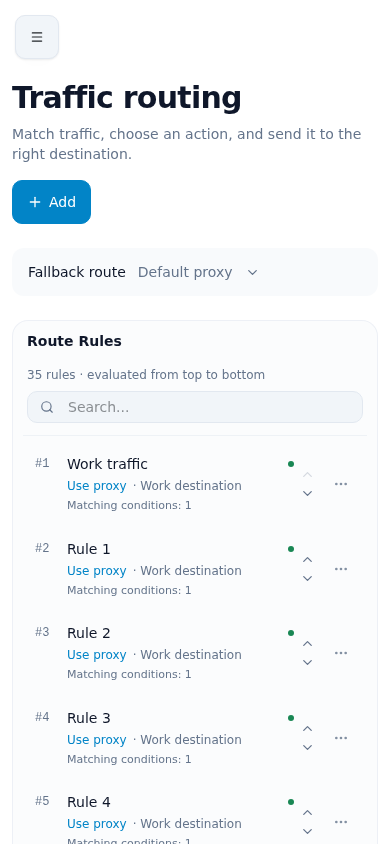
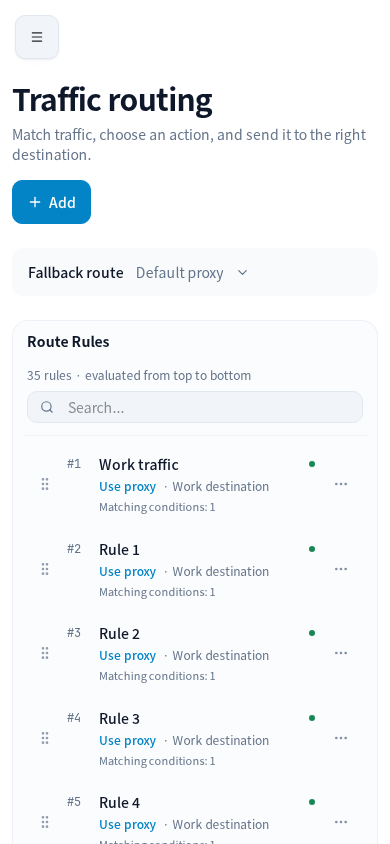
feat(routing): reorder rules with mouse and touch drag handles

diff --git a/src/docs/bypass/rule-list.tsx b/src/docs/bypass/rule-list.tsx
@@ -2,10 +2,12 @@ import { Button } from '@/component/v2/button';
 import { Dropdown, DropdownCheckboxItem, DropdownContent, DropdownItem, DropdownTrigger } from '@/component/v2/dropdown';
 import type { RuleItem } from '@/contract/route';
 import clsx from 'clsx';
-import { ArrowUpDown, ChevronDown, ChevronUp, MoreHorizontal } from 'lucide-react';
+import { ArrowUpDown, GripVertical, MoreHorizontal } from 'lucide-react';
 import { useTranslation } from 'react-i18next';
+import { useId } from 'react';
+import { useRuleDrag, type RuleDrop } from './rule-drag';
 
-export function RuleList({ items, selectedId, onOpen, onPriority, onToggle, onMove, destinations, resolverNames, busy, page, pageSize, total, filtered }: {
+export function RuleList({ items, selectedId, onOpen, onPriority, onToggle, onMove, onDrop, destinations, resolverNames, busy, page, pageSize, total, filtered }: {
     items: RuleItem[];
     selectedId?: string;
     destinations: Record<string, string>;
@@ -19,12 +21,17 @@ export function RuleList({ items, selectedId, onOpen, onPriority, onToggle, onMo
     onPriority: (item: RuleItem) => void;
     onToggle: (item: RuleItem) => void;
     onMove: (item: RuleItem, direction: -1 | 1) => void;
+    onDrop: (item: RuleItem, drop: RuleDrop) => void;
 }) {
     const { t } = useTranslation('routing');
     const { t: uiT } = useTranslation('ui');
     const hasPreviousPage = page > 1;
     const hasNextPage = total > (page - 1) * pageSize + items.length;
-    return <ul className="m-0 list-none space-y-1 p-0" aria-label={uiT('routeRules')}>
+    const helpId = useId();
+    const { listRef, drag, start } = useRuleDrag(items, busy || filtered || total < 2, onDrop);
+    return <>
+        <p id={helpId} className="sr-only">{t('dragRuleHelp')}</p>
+        <ul ref={listRef} className="m-0 list-none space-y-1 p-0" aria-label={uiT('routeRules')}>
         {items.map((item, index) => {
             const proxy = item.mode === 'proxy';
             const destination = !item.target.type || item.target.type === 'default'
@@ -32,13 +39,24 @@ export function RuleList({ items, selectedId, onOpen, onPriority, onToggle, onMo
             const selected = item.id === selectedId;
             const canMoveUp = !filtered && !busy && (index > 0 || hasPreviousPage);
             const canMoveDown = !filtered && !busy && (index + 1 < items.length || hasNextPage);
-            return <li key={item.id} className={clsx(
+            return <li key={item.id} data-rule-id={item.id} className={clsx(
                 'group relative flex min-w-0 items-center rounded-ui-md transition-colors',
-                selected ? 'bg-ui-primary-soft/70' : 'hover:bg-ui-surface-muted/75'
+                selected ? 'bg-ui-primary-soft/70' : 'hover:bg-ui-surface-muted/75', drag?.source.id === item.id && 'opacity-35'
             )}>
                 {selected && <span aria-hidden="true" className="absolute inset-y-3 left-0 w-0.5 rounded-full bg-ui-primary" />}
+                {drag?.target?.target.id === item.id && <span aria-hidden="true" className={clsx('pointer-events-none absolute inset-x-0 z-10 h-0.5 rounded-full bg-ui-primary', drag.target.placement === 'insert_before' ? 'top-0' : 'bottom-0')} />}
+                <button type="button" disabled={busy || filtered || total < 2} aria-label={t('dragRule', { name: item.name })} aria-describedby={helpId}
+                    title={t('dragRuleHelp')} onPointerDown={event => start(event, item)} onContextMenu={event => event.preventDefault()}
+                    onKeyDown={event => {
+                        if (event.key === 'ArrowUp' && canMoveUp || event.key === 'ArrowDown' && canMoveDown) {
+                            event.preventDefault(); onMove(item, event.key === 'ArrowUp' ? -1 : 1);
+                        }
+                    }}
+                    className="flex h-11 w-7 shrink-0 touch-pan-y cursor-grab items-center justify-center rounded-ui-md text-ui-muted/70 hover:text-ui-heading focus-visible:outline-none focus-visible:ring-2 focus-visible:ring-ui-focus active:cursor-grabbing disabled:cursor-default disabled:opacity-25 max-sm:w-11">
+                    <GripVertical size={16} aria-hidden="true" />
+                </button>
                 <button type="button" aria-current={selected ? 'true' : undefined} aria-label={item.name} title={item.name} onClick={() => onOpen(item)}
-                    className="min-w-0 flex-1 rounded-ui-md py-2.5 pl-3 pr-1 text-left focus-visible:outline-none focus-visible:ring-2 focus-visible:ring-inset focus-visible:ring-ui-focus">
+                    className="min-w-0 flex-1 rounded-ui-md py-2.5 pl-0 pr-1 text-left focus-visible:outline-none focus-visible:ring-2 focus-visible:ring-inset focus-visible:ring-ui-focus">
                     <div className={clsx('min-w-0', item.disabled && 'opacity-60')}>
                         <div className="flex min-w-0 items-center gap-2">
                             <span className="w-6 shrink-0 font-mono text-xs tabular-nums text-ui-muted">#{item.index}</span>
@@ -58,18 +76,6 @@ export function RuleList({ items, selectedId, onOpen, onPriority, onToggle, onMo
                     </div>
                 </button>
                 <div className="flex shrink-0 items-center gap-0.5 pr-1">
-                    <div className="flex flex-col">
-                        <button type="button" disabled={!canMoveUp} aria-label={`${t('moveEarlier')}: ${item.name}`}
-                            title={t('moveEarlier')} onClick={() => onMove(item, -1)}
-                            className="rounded-ui-xs p-0.5 text-ui-muted hover:bg-ui-surface hover:text-ui-heading focus-visible:outline-none focus-visible:ring-2 focus-visible:ring-ui-focus disabled:opacity-25">
-                            <ChevronUp size={15} />
-                        </button>
-                        <button type="button" disabled={!canMoveDown} aria-label={`${t('moveLater')}: ${item.name}`}
-                            title={t('moveLater')} onClick={() => onMove(item, 1)}
-                            className="rounded-ui-xs p-0.5 text-ui-muted hover:bg-ui-surface hover:text-ui-heading focus-visible:outline-none focus-visible:ring-2 focus-visible:ring-ui-focus disabled:opacity-25">
-                            <ChevronDown size={15} />
-                        </button>
-                    </div>
                     <Dropdown><DropdownTrigger asChild>
                         <Button type="button" size="icon" variant="outline-secondary" className="h-8 w-8 border-transparent bg-transparent text-ui-muted/80" aria-label={t('ruleActions', { name: item.name })}><MoreHorizontal size={16} /></Button>
                     </DropdownTrigger><DropdownContent align="end">
@@ -80,5 +86,13 @@ export function RuleList({ items, selectedId, onOpen, onPriority, onToggle, onMo
             </li>;
         })}
         {!items.length && <li className="py-12 text-center text-sm text-ui-muted">{uiT('noRecordsFound')}</li>}
-    </ul>;
+        </ul>
+        {drag && <>
+            <div aria-hidden="true" className="pointer-events-none fixed z-[1060] flex min-w-0 items-center gap-2 rounded-ui-md border border-ui-primary/40 bg-ui-surface px-3 py-3 text-sm shadow-ui-elevated"
+                style={{ left: drag.left, top: drag.y - drag.offset, width: drag.width }}>
+                <GripVertical size={16} className="shrink-0 text-ui-primary" /><span className="min-w-0 truncate font-medium text-ui-heading">{drag.source.name}</span>
+            </div>
+            <span role="status" className="sr-only">{t('draggingRule', { name: drag.source.name })}</span>
+        </>}
+    </>;
 }

diff --git a/src/docs/bypass/rule-drag.ts b/src/docs/bypass/rule-drag.ts
@@ -1,0 +1,126 @@
+import type { RuleItem } from '@/contract/route';
+import { useEffect, useRef, useState, type PointerEvent as ReactPointerEvent } from 'react';
+
+export type RuleDrop = { target: RuleItem; placement: 'insert_before' | 'insert_after' };
+type DragView = { source: RuleItem; target?: RuleDrop; x: number; y: number; left: number; width: number; offset: number };
+const HOLD_MS = 400;
+
+export function changesRuleOrder(items: RuleItem[], source: RuleItem, drop: RuleDrop): boolean {
+    const from = items.findIndex(item => item.id === source.id);
+    const to = items.findIndex(item => item.id === drop.target.id);
+    return from >= 0 && to >= 0 && from !== to &&
+        !(drop.placement === 'insert_before' && to === from + 1) &&
+        !(drop.placement === 'insert_after' && to === from - 1);
+}
+
+/** Touch stays scrollable until a stationary long press activates the handle. */
+export function useRuleDrag(items: RuleItem[], disabled: boolean, onDrop: (source: RuleItem, drop: RuleDrop) => void) {
+    const listRef = useRef<HTMLUListElement>(null);
+    const [drag, setDrag] = useState<DragView | null>(null);
+    const latest = useRef({ items, disabled, onDrop });
+    useEffect(() => { latest.current = { items, disabled, onDrop }; }, [items, disabled, onDrop]);
+    const cleanup = useRef<() => void>(() => {});
+    const session = useRef<{ pointerId: number } | null>(null);
+    useEffect(() => () => cleanup.current(), []);
+
+    const start = (event: ReactPointerEvent<HTMLButtonElement>, source: RuleItem) => {
+        if (disabled || !event.isPrimary || event.button !== 0 || session.current) return;
+        const list = listRef.current;
+        const row = event.currentTarget.closest('li');
+        const scroller = list?.parentElement;
+        if (!list || !row || !scroller) return;
+        const rect = row.getBoundingClientRect();
+        const touch = event.pointerType !== 'mouse';
+        const origin = { x: event.clientX, y: event.clientY };
+        let point = { ...origin };
+        let active = false;
+        let drop: RuleDrop | undefined;
+        let timer: ReturnType<typeof setTimeout> | undefined;
+        let frame = 0;
+        session.current = { pointerId: event.pointerId };
+        event.currentTarget.focus({ preventScroll: true });
+        if (!touch) event.preventDefault();
+
+        const update = () => {
+            const bounds = scroller.getBoundingClientRect();
+            drop = undefined;
+            if (point.x >= bounds.left - 24 && point.x <= bounds.right + 24 && point.y >= bounds.top - 8 && point.y <= bounds.bottom + 8) {
+                const rows = [...list.querySelectorAll<HTMLLIElement>('li[data-rule-id]')].filter(item => item.dataset.ruleId !== source.id);
+                const target = rows.find(item => point.y < item.getBoundingClientRect().bottom) ?? rows[rows.length - 1];
+                const rule = latest.current.items.find(item => item.id === target?.dataset.ruleId);
+                if (rule && target) {
+                    const box = target.getBoundingClientRect();
+                    drop = { target: rule, placement: point.y < box.top + box.height / 2 ? 'insert_before' : 'insert_after' };
+                }
+            }
+            setDrag(previous => previous && previous.x === point.x && previous.y === point.y && previous.target?.target.id === drop?.target.id && previous.target?.placement === drop?.placement
+                ? previous : { source, target: drop, ...point, left: rect.left, width: rect.width, offset: origin.y - rect.top });
+        };
+        const tick = () => {
+            if (!active) return;
+            const box = scroller.getBoundingClientRect();
+            const edge = 40;
+            const inside = point.x >= box.left - 24 && point.x <= box.right + 24;
+            const speed = !inside ? 0 : point.y < box.top + edge ? -Math.min(12, (box.top + edge - point.y) / 3)
+                : point.y > box.bottom - edge ? Math.min(12, (point.y - box.bottom + edge) / 3) : 0;
+            if (speed) { scroller.scrollTop += speed; update(); }
+            frame = requestAnimationFrame(tick);
+        };
+        const activate = () => {
+            if (latest.current.disabled) { finish(false); return; }
+            active = true;
+            setDrag({ source, ...point, left: rect.left, width: rect.width, offset: origin.y - rect.top });
+            frame = requestAnimationFrame(tick);
+        };
+        const detach = () => {
+            clearTimeout(timer); cancelAnimationFrame(frame);
+            document.removeEventListener('pointermove', move);
+            document.removeEventListener('pointerup', up);
+            document.removeEventListener('pointercancel', cancel);
+            document.removeEventListener('touchmove', touchMove, true);
+            document.removeEventListener('keydown', key);
+            window.removeEventListener('blur', cancel);
+            session.current = null;
+            cleanup.current = () => {};
+        };
+        const finish = (commit: boolean) => {
+            const result = drop;
+            detach(); setDrag(null);
+            if (commit && active && result && !latest.current.disabled && changesRuleOrder(latest.current.items, source, result)) latest.current.onDrop(source, result);
+        };
+        const move = (next: PointerEvent) => {
+            if (next.pointerId !== event.pointerId) return;
+            point = { x: next.clientX, y: next.clientY };
+            const distance = Math.hypot(point.x - origin.x, point.y - origin.y);
+            if (latest.current.disabled) { finish(false); return; }
+            if (!active) {
+                if (touch && distance > 10) { finish(false); return; }
+                if (!touch && distance >= 5) activate();
+            }
+            if (active) { next.preventDefault(); update(); }
+        };
+        const up = (next: PointerEvent) => {
+            if (next.pointerId !== event.pointerId) return;
+            point = { x: next.clientX, y: next.clientY };
+            if (active) update();
+            finish(true);
+        };
+        const cancel = () => finish(false);
+        const key = (next: KeyboardEvent) => { if (next.key === 'Escape' || next.key === 'Tab') finish(false); };
+        // Pointer events alone cannot stop a touch pan after touch-action was
+        // negotiated. Cancel touchmove only after the long press, before the UA scrolls.
+        const touchMove = (next: TouchEvent) => {
+            if (next.touches.length !== 1) { finish(false); return; }
+            if (active) next.preventDefault();
+        };
+        cleanup.current = detach;
+        document.addEventListener('pointermove', move, { passive: false });
+        document.addEventListener('pointerup', up);
+        document.addEventListener('pointercancel', cancel);
+        document.addEventListener('touchmove', touchMove, { passive: false, capture: true });
+        document.addEventListener('keydown', key);
+        window.addEventListener('blur', cancel);
+        if (touch) timer = setTimeout(activate, HOLD_MS);
+    };
+    return { listRef, drag, start };
+}

diff --git a/src/docs/bypass/rule-list.test.tsx b/src/docs/bypass/rule-list.test.tsx
@@ -1,0 +1,64 @@
+import { act } from 'react';
+import { createRoot, type Root } from 'react-dom/client';
+import { afterEach, beforeEach, expect, it, vi } from 'vitest';
+import type { RuleItem } from '@/contract/route';
+import { RuleList } from './rule-list';
+
+vi.mock('react-i18next', () => ({ useTranslation: () => ({ t: (key: string, options?: { name?: string }) => options?.name ? `${key}: ${options.name}` : key }) }));
+const items: RuleItem[] = ['First', 'Second', 'Third'].map((name, index) => ({ id: String(index), name, index: index + 1, disabled: false, mode: 'proxy', target: { type: 'default' }, resolver: '', ruleCount: 1 }));
+let host: HTMLDivElement;
+let root: Root;
+const onDrop = vi.fn();
+const onOpen = vi.fn();
+const onMove = vi.fn();
+beforeEach(() => {
+    vi.useFakeTimers(); vi.clearAllMocks();
+    host = document.createElement('div'); document.body.append(host); root = createRoot(host);
+    vi.spyOn(HTMLElement.prototype, 'getBoundingClientRect').mockImplementation(function (this: HTMLElement) {
+        const index = Number(this.dataset.ruleId ?? 0);
+        const top = this.matches('li') ? index * 60 : 0;
+        const height = this.matches('li') ? 60 : 200;
+        return { top, left: 0, right: 280, bottom: top + height, width: 280, height, x: 0, y: top, toJSON: () => ({}) };
+    });
+});
+afterEach(() => { act(() => root.unmount()); host.remove(); vi.restoreAllMocks(); vi.useRealTimers(); });
+function render(busy = false, filtered = false) {
+    act(() => root.render(<RuleList items={items} destinations={{}} resolverNames={{}} page={1} pageSize={3} total={3} busy={busy} filtered={filtered}
+        onOpen={onOpen} onMove={onMove} onDrop={onDrop} onPriority={vi.fn()} onToggle={vi.fn()} />));
+}
+function handle(index = 0) { return host.querySelectorAll<HTMLButtonElement>('button[aria-describedby]')[index]; }
+function pointer(target: EventTarget, type: string, y: number, pointerType = 'mouse') {
+    const event = new MouseEvent(type, { bubbles: true, cancelable: true, clientX: 14, clientY: y, button: 0 });
+    Object.defineProperties(event, { pointerType: { value: pointerType }, pointerId: { value: 1 }, isPrimary: { value: true } });
+    act(() => target.dispatchEvent(event));
+}
+it('drags from the handle to an insertion position without opening the editor', () => {
+    render(); pointer(handle(), 'pointerdown', 30); pointer(document, 'pointermove', 170); pointer(document, 'pointerup', 170);
+    expect(onDrop).toHaveBeenCalledExactlyOnceWith(items[0], { target: items[2], placement: 'insert_after' });
+    expect(onOpen).not.toHaveBeenCalled(); expect(host.querySelector('[role="status"]')).toBeNull();
+});
+it('lets an early touch swipe scroll and does not activate sorting', () => {
+    render(); pointer(handle(), 'pointerdown', 30, 'touch'); pointer(document, 'pointermove', 55, 'touch');
+    act(() => vi.advanceTimersByTime(500)); pointer(document, 'pointerup', 170, 'touch');
+    expect(onDrop).not.toHaveBeenCalled(); expect(host.querySelector('[role="status"]')).toBeNull();
+});
+it('activates a held touch and blocks native scrolling only during that drag', () => {
+    render(); pointer(handle(), 'pointerdown', 30, 'touch');
+    const touch = () => { const event = new Event('touchmove', { cancelable: true, bubbles: true }); Object.defineProperty(event, 'touches', { value: [{}] }); act(() => document.dispatchEvent(event)); return event.defaultPrevented; };
+    expect(touch()).toBe(false); act(() => vi.advanceTimersByTime(400)); expect(touch()).toBe(true);
+    pointer(document, 'pointermove', 170, 'touch'); pointer(document, 'pointerup', 170, 'touch');
+    expect(onDrop).toHaveBeenCalledExactlyOnceWith(items[0], { target: items[2], placement: 'insert_after' }); expect(touch()).toBe(false);
+});
+it('cancels Escape, pointer cancellation and no-op drops without saving', () => {
+    render(); pointer(handle(), 'pointerdown', 30); pointer(document, 'pointermove', 170);
+    act(() => document.dispatchEvent(new KeyboardEvent('keydown', { key: 'Escape', bubbles: true }))); pointer(document, 'pointerup', 170);
+    pointer(handle(), 'pointerdown', 30); pointer(document, 'pointermove', 170); pointer(document, 'pointercancel', 170);
+    pointer(handle(), 'pointerdown', 30); pointer(document, 'pointermove', 65); pointer(document, 'pointerup', 65);
+    expect(onDrop).not.toHaveBeenCalled();
+});
+it('blocks sorting while a draft is dirty or the directory is filtered, and supports keyboard handles', () => {
+    render(true); expect(handle().disabled).toBe(true); pointer(handle(), 'pointerdown', 30); pointer(document, 'pointermove', 170); pointer(document, 'pointerup', 170);
+    render(false, true); expect(handle().disabled).toBe(true); expect(onDrop).not.toHaveBeenCalled();
+    render(); act(() => handle().dispatchEvent(new KeyboardEvent('keydown', { key: 'ArrowDown', bubbles: true })));
+    expect(onMove).toHaveBeenCalledExactlyOnceWith(items[0], 1);
+});

diff --git a/src/docs/bypass/page.tsx b/src/docs/bypass/page.tsx
@@ -31,6 +31,7 @@ import { Spinner } from "@/component/v2/spinner";
 import { GlobalToastContext } from "@/component/v2/toast";
 import type { RuleDraft, RuleItem } from "@/contract/route";
 import { RuleList } from "./rule-list";
+import type { RuleDrop } from "./rule-drag";
 import { ArrowRight, ChevronDown, Plus, Save, ListFilter } from "lucide-react";
 import { useContext, useEffect, useMemo, useRef, useState } from "react";
 import useSWR, { useSWRConfig } from "swr";
@@ -149,7 +150,7 @@ function BypassComponent() {
             if (!adjacent) {
                 const neighboringPage = page + direction;
                 if (neighboringPage < 1) return;
-                const result = await listRules({ page: neighboringPage, pageSize: PAGE_SIZE, query: '' });
+                const result = await listRules({ page: neighboringPage, pageSize: currentPage.page.pageSize || PAGE_SIZE, query: '' });
                 adjacent = direction < 0 ? result.items[result.items.length - 1] : result.items[0];
             }
             if (!adjacent) return;
@@ -163,6 +164,17 @@ function BypassComponent() {
             } finally {
                 await mutateActivation();
             }
+        });
+    };
+    const dropRule = (item: RuleItem, drop: RuleDrop) => {
+        if (!data || query.trim() || toggling || reordering || editorState.dirty || editorState.pending || isValidating || data.page.page !== page) return;
+        void runReorder(async () => {
+            await changeRulePriority({ id: item.id }, { id: drop.target.id }, drop.placement);
+            await mutate();
+            void mutateAllRules();
+            void mutateActivation();
+            try { await applyRouteChanges(); ctx.Info(t('ruleReordered')); }
+            finally { await mutateActivation(); }
         });
     };
     const toggleDisabled = (item: RuleItem) => {
@@ -221,7 +233,7 @@ function BypassComponent() {
                             resolverNames={Object.fromEntries((resolversData?.items ?? []).map(item => [item.id, item.name]))}
                             page={data.page.page || page} pageSize={data.page.pageSize || PAGE_SIZE} total={data.page.total} filtered={Boolean(query.trim())}
                             busy={toggling || reordering || isValidating || editorState.pending || editorState.dirty}
-                            onOpen={selectRule} onPriority={setPriorityItem} onToggle={toggleDisabled} onMove={moveRule} />}
+                            onOpen={selectRule} onPriority={setPriorityItem} onToggle={toggleDisabled} onMove={moveRule} onDrop={dropRule} />}
                     </div>
                     {Math.ceil(data.page.total / (data.page.pageSize || PAGE_SIZE)) > 1 && <div className="flex justify-center border-t border-ui-border/60 pt-3">
                         <Pagination currentPage={data.page.page || page} totalItems={data.page.total} pageSize={data.page.pageSize || PAGE_SIZE} onPageChange={setPage} />

diff --git a/src/docs/bypass/page.test.tsx b/src/docs/bypass/page.test.tsx
@@ -128,7 +128,7 @@ it('retries activation after a deletion without deleting the rule twice', async 
 
 it('moves neighboring rules without opening a priority dialog', async () => {
     await render();
-    await click('moveLater: First');
+    await act(async () => host.querySelectorAll('[aria-label="dragRule"]')[0].dispatchEvent(new KeyboardEvent('keydown', { key: 'ArrowDown', bubbles: true })));
     expect(api.changeRulePriority).toHaveBeenCalledWith({ id: '0' }, { id: '1' }, 'exchange');
     expect(api.applyRouteChanges).toHaveBeenCalledTimes(1);
     expect(host.querySelector('[role="dialog"]')).toBeNull();
@@ -146,8 +146,8 @@ it('moves the last visible rule across a page boundary', async () => {
         };
     });
     await render();
-    await click('moveLater: Second');
-    expect(api.listRules).toHaveBeenCalledWith({ page: 2, pageSize: 25, query: '' });
+    await act(async () => host.querySelectorAll('[aria-label="dragRule"]')[1].dispatchEvent(new KeyboardEvent('keydown', { key: 'ArrowDown', bubbles: true })));
+    expect(api.listRules).toHaveBeenCalledWith({ page: 2, pageSize: 8, query: '' });
     expect(api.changeRulePriority).toHaveBeenCalledWith({ id: '1' }, { id: 'third' }, 'exchange');
 });
 

diff --git a/docs/ux-refactor/README.md b/docs/ux-refactor/README.md
@@ -17,10 +17,16 @@ the DOM. Screenshots do not constitute connectivity or accessibility certificati
   remain in the canonical draft and are signposted when hidden.
 - Shared lists are referenced by stable ID. Private lists belong to the rule,
   and detached owned lists are omitted during save. Action changes preserve
-  the previously configured proxy target.
-- Rule priority is visible in the directory and can be adjusted by neighboring
-  moves without opening a dialog. The dialog remains available for larger
-  changes; direct moves are disabled while searching or holding an unsaved draft.
+  the previously configured proxy target. Switching a condition between private
+  and shared lists preserves its private input until the draft is saved.
+  Removing an AND condition retains AND when more conditions are added later.
+- Rule priority is visible in the directory. Drag its leading handle to insert
+  a rule before or after another rule on the current page. On touch screens,
+  hold the handle for 400 ms before dragging; ordinary swipes still scroll.
+  Dragging near the directory edges scrolls it, and Escape cancels the drag.
+  Arrow keys on a focused handle move to adjacent positions, including across
+  page boundaries. The priority dialog remains available for larger changes;
+  direct moves are disabled while searching or holding an unsaved draft.
 - Node lists keep virtualization and remember drafts while the directory
   filters or switches groups. The node editor uses the same form behavior in
   the modal and inline shells without duplicating the default-destination control.
@@ -31,6 +37,11 @@ Pull-request CI now runs TypeScript checks, Vitest, localization completeness,
 the style audit, lint, and the production build. It also captures browser
 screenshots from the MSW preview and fails when the expected UI does not
 appear or if the page overflows horizontally.
+
+The follow-up passed 115 tests in 48 files, TypeScript, localization checks,
+strict lint with no warnings, the style audit and the production build. Isolated
+Chrome interaction checks covered mouse insertion, native touch scrolling,
+long-press touch insertion, edge scrolling and cancellation without a save.
 
 Run `npm run dev:msw` and then `node scripts/capture-ux.mjs` to create
 screenshots at `/tmp/ux-shots` on a Linux environment with Chrome available
